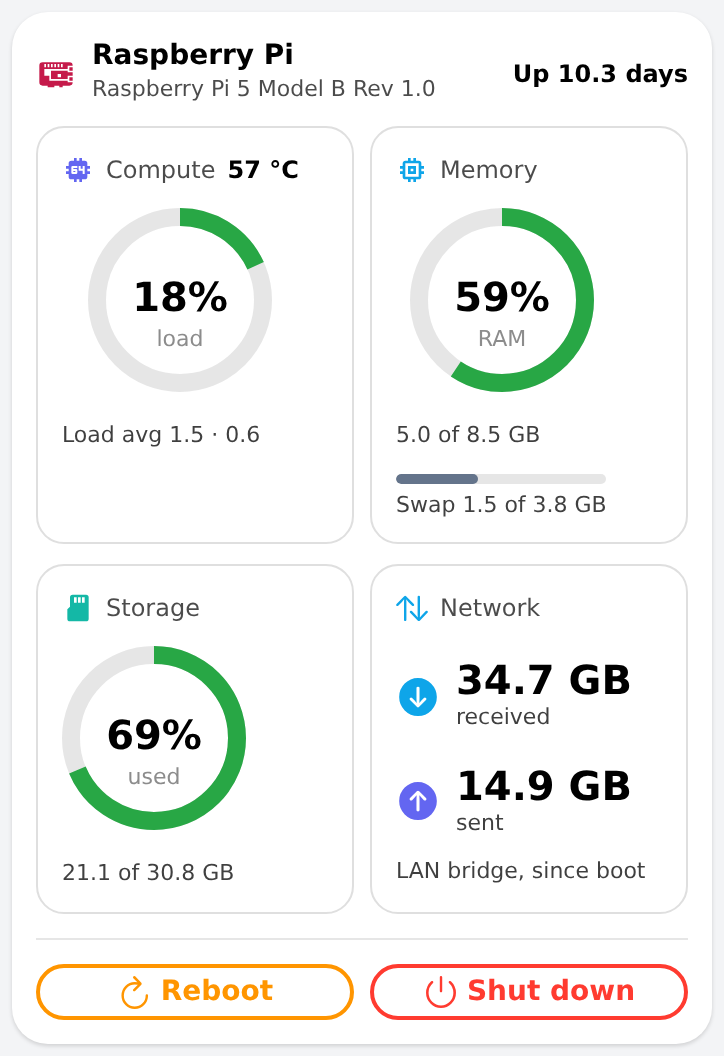
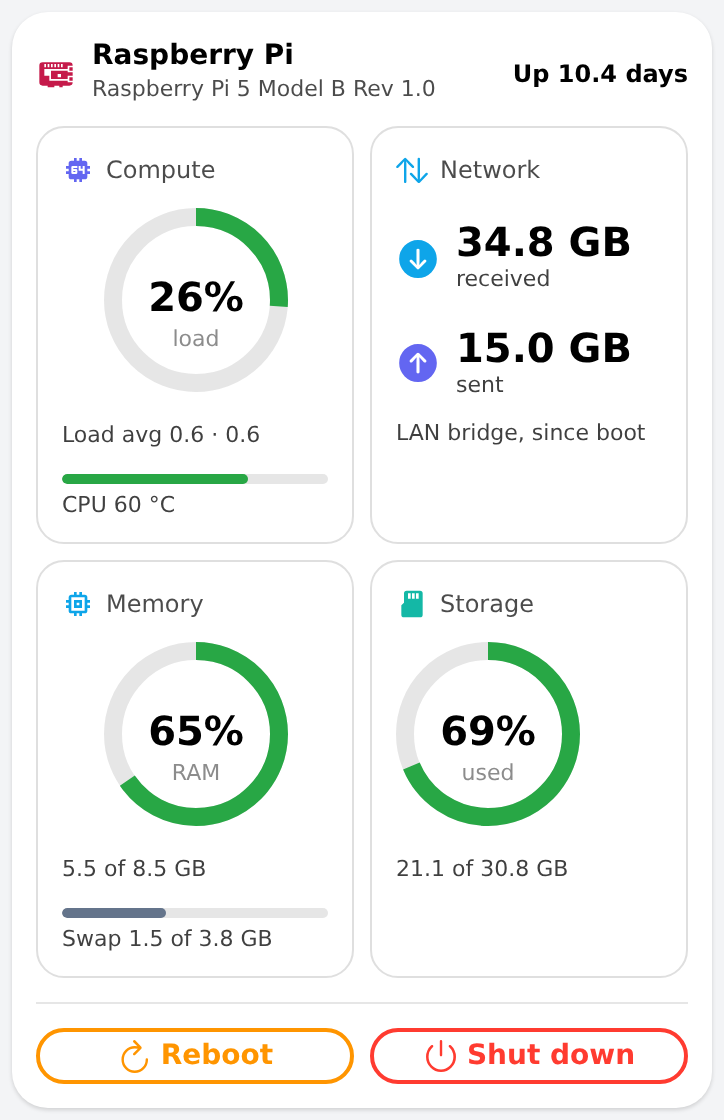
release(server_status_card): v1.1.0 — responsive layer tiles, consistent info placement

diff --git a/widgets/server_status_card/README.md b/widgets/server_status_card/README.md
@@ -2,9 +2,10 @@
 
 ![Server status card](screenshots/card.png)
 
-One grouped card for the machine openHAB runs on, organised by layer: **Compute** (CPU load ring, CPU temperature, load average),
-**Memory** (RAM ring, swap bar nested under it), **Storage** (used ring with used/total GB), **Network** (data received/sent since boot),
-and the **controls** Reboot and Shut down. The header shows the hardware model and the uptime. The rings go green → amber above 70 % → red above 85 %.
+One grouped card for the machine openHAB runs on, organised by layer: **Compute** (CPU load ring, load average, temperature bar),
+**Network** (data received/sent since boot), **Memory** (RAM ring, swap bar nested under it), **Storage** (used ring with used/total GB),
+and the **controls** Reboot and Shut down. The layer tiles wrap: two per row on a phone (compute+network, memory+storage), all four in one row on wide screens.
+Every tile has the same structure — header with icon and title, ring or values, primary line, optional bar. The header shows the hardware model and the uptime. The rings go green → amber above 70 % → red above 85 %.
 
 Native components only (`f7-gauge`, `f7-card`, `oh-button`); optional parts (the two buttons) render through repeaters. Reboot and shutdown send `ON` to exec
 switch items and always ask for confirmation first — shutdown needs physical access to start again; leave `rebootItem` / `shutdownItem` empty to hide a button.
@@ -36,6 +37,11 @@ link the data sent/received items to the channel group of your real interface.
 | `shutdownItem` | `gSystem_Shutdown` | Exec switch; ON powers the server off (with confirmation). Empty = no button. |
 
 ## Changelog
+
+### Version 1.1.0
+
+- Layer tiles wrap responsively (2×2 on phones, one row on desktop) instead of two fixed columns; order compute, network, memory, storage
+- CPU temperature moved from the tile header to a bar line under the load, matching the swap bar of the memory tile; consistent info placement across tiles
 
 ### Version 1.0.0
 
